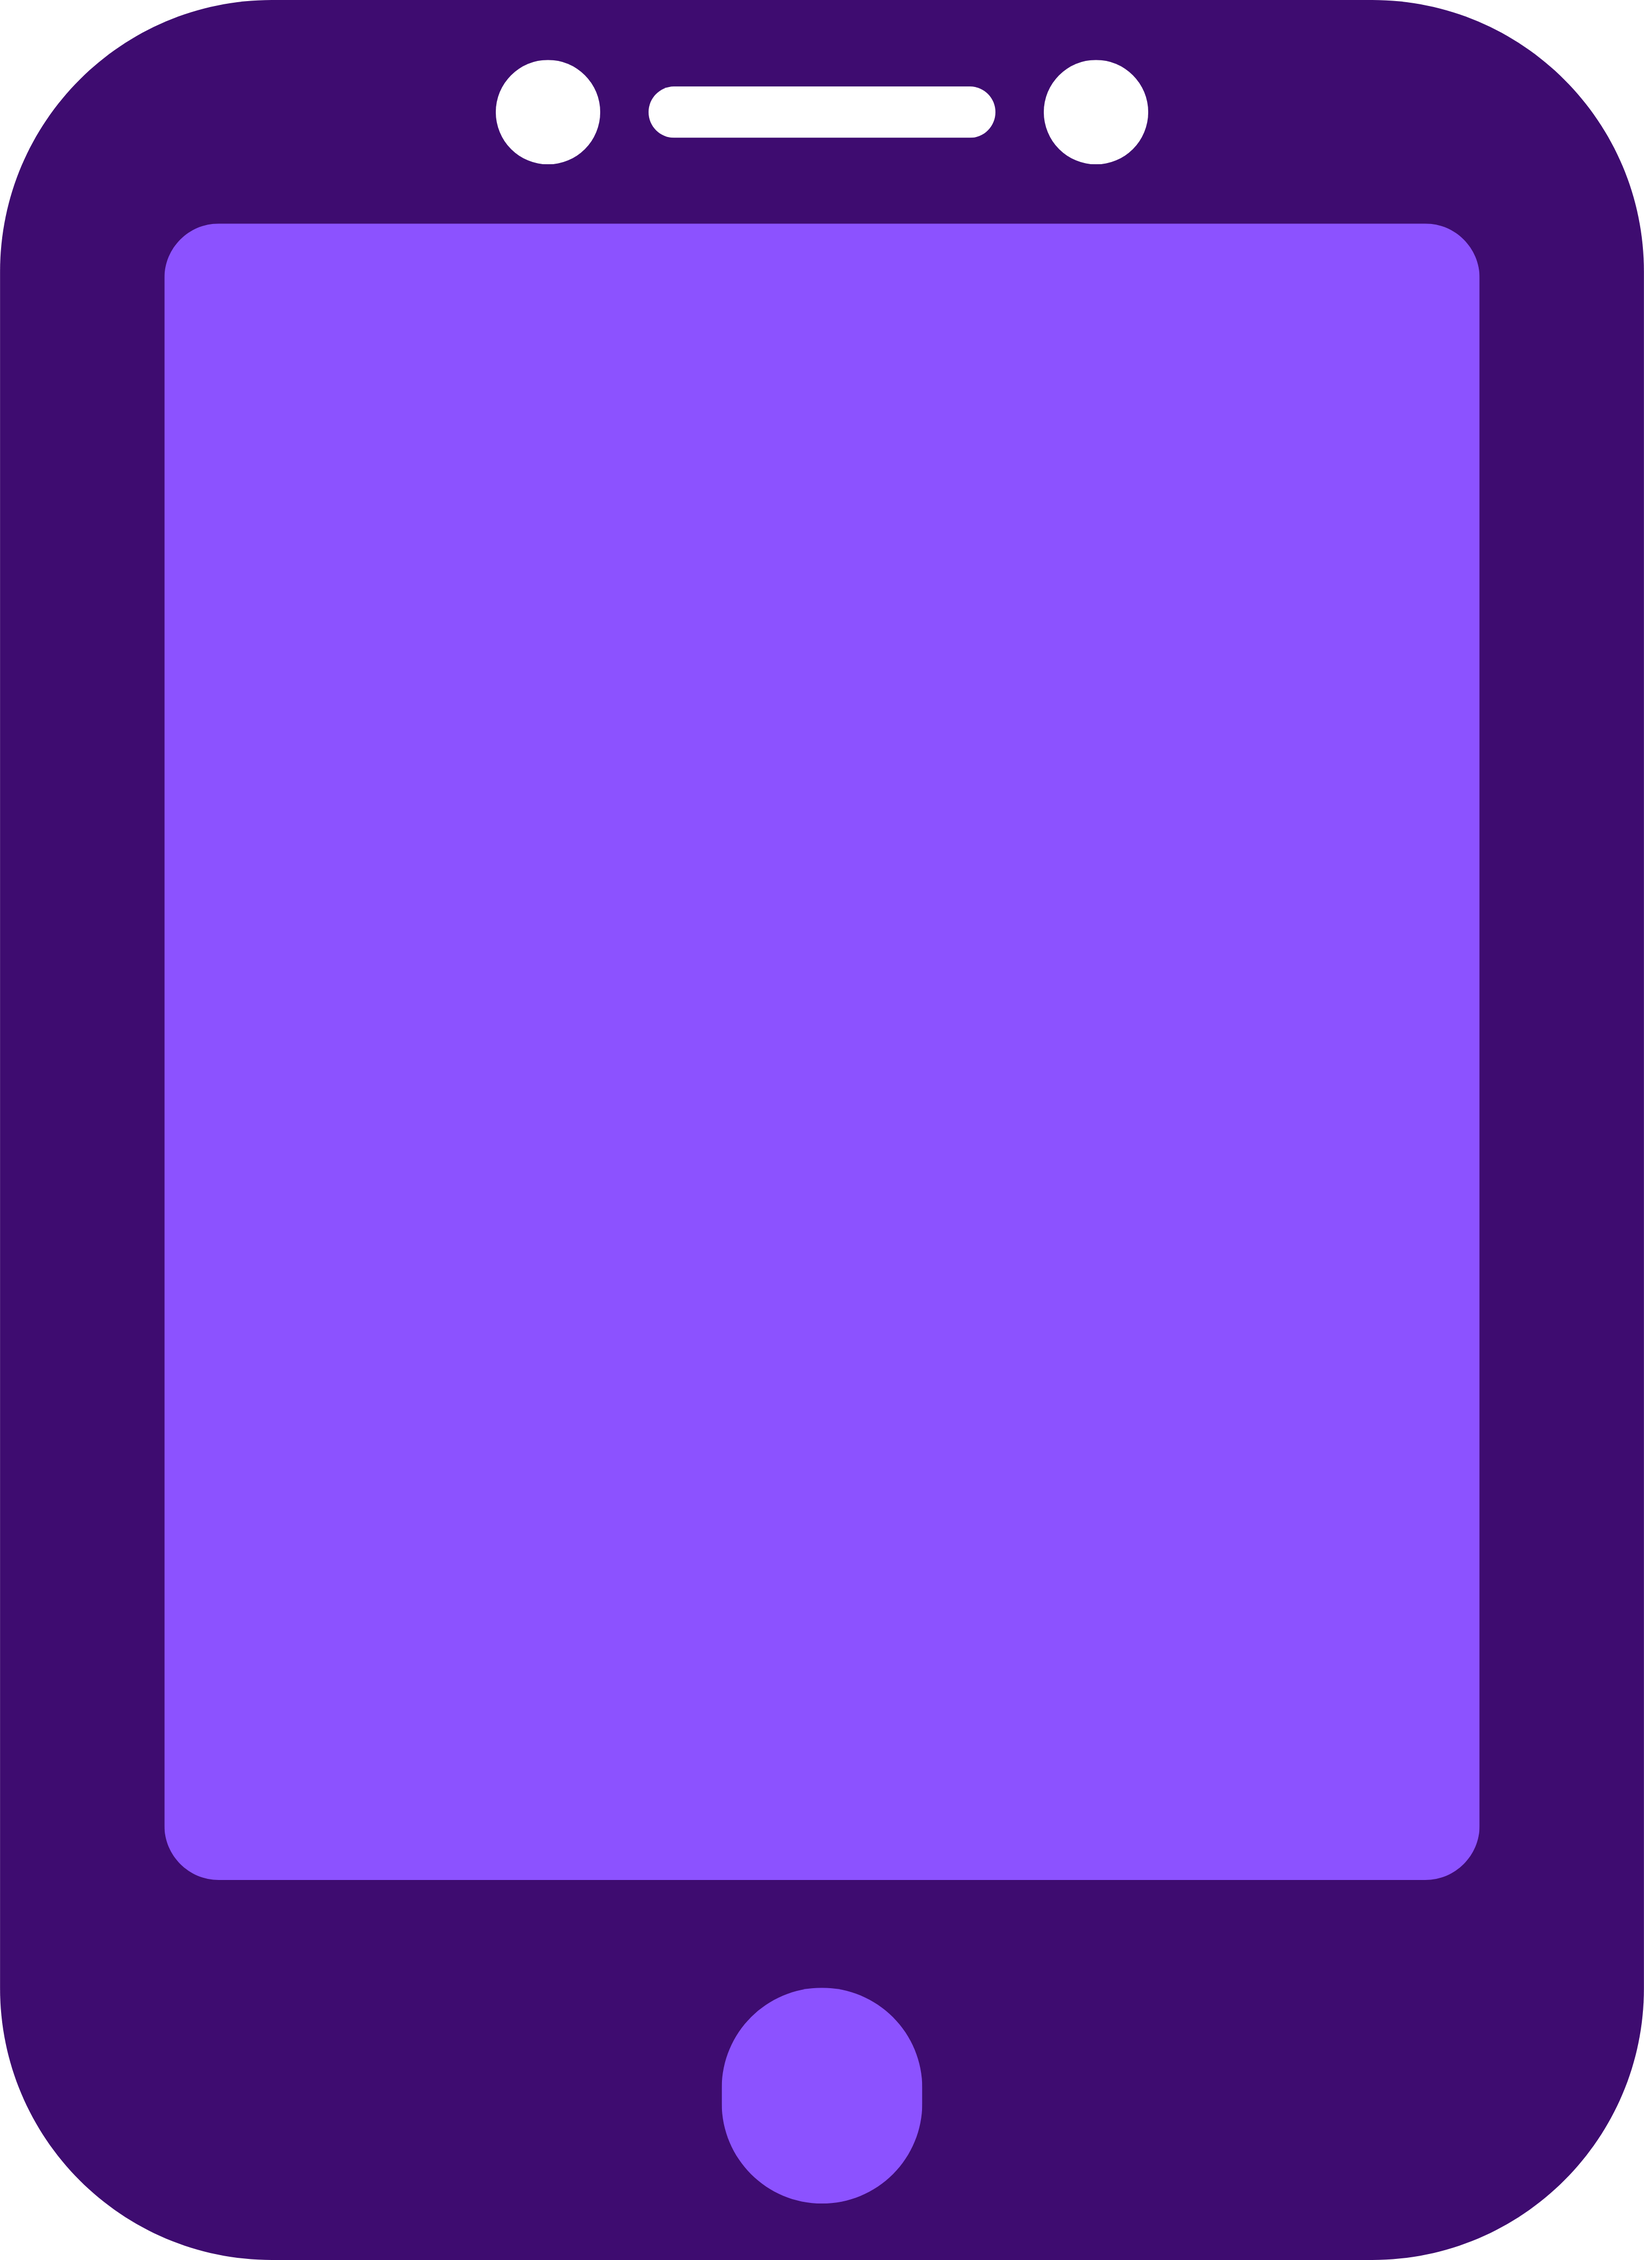
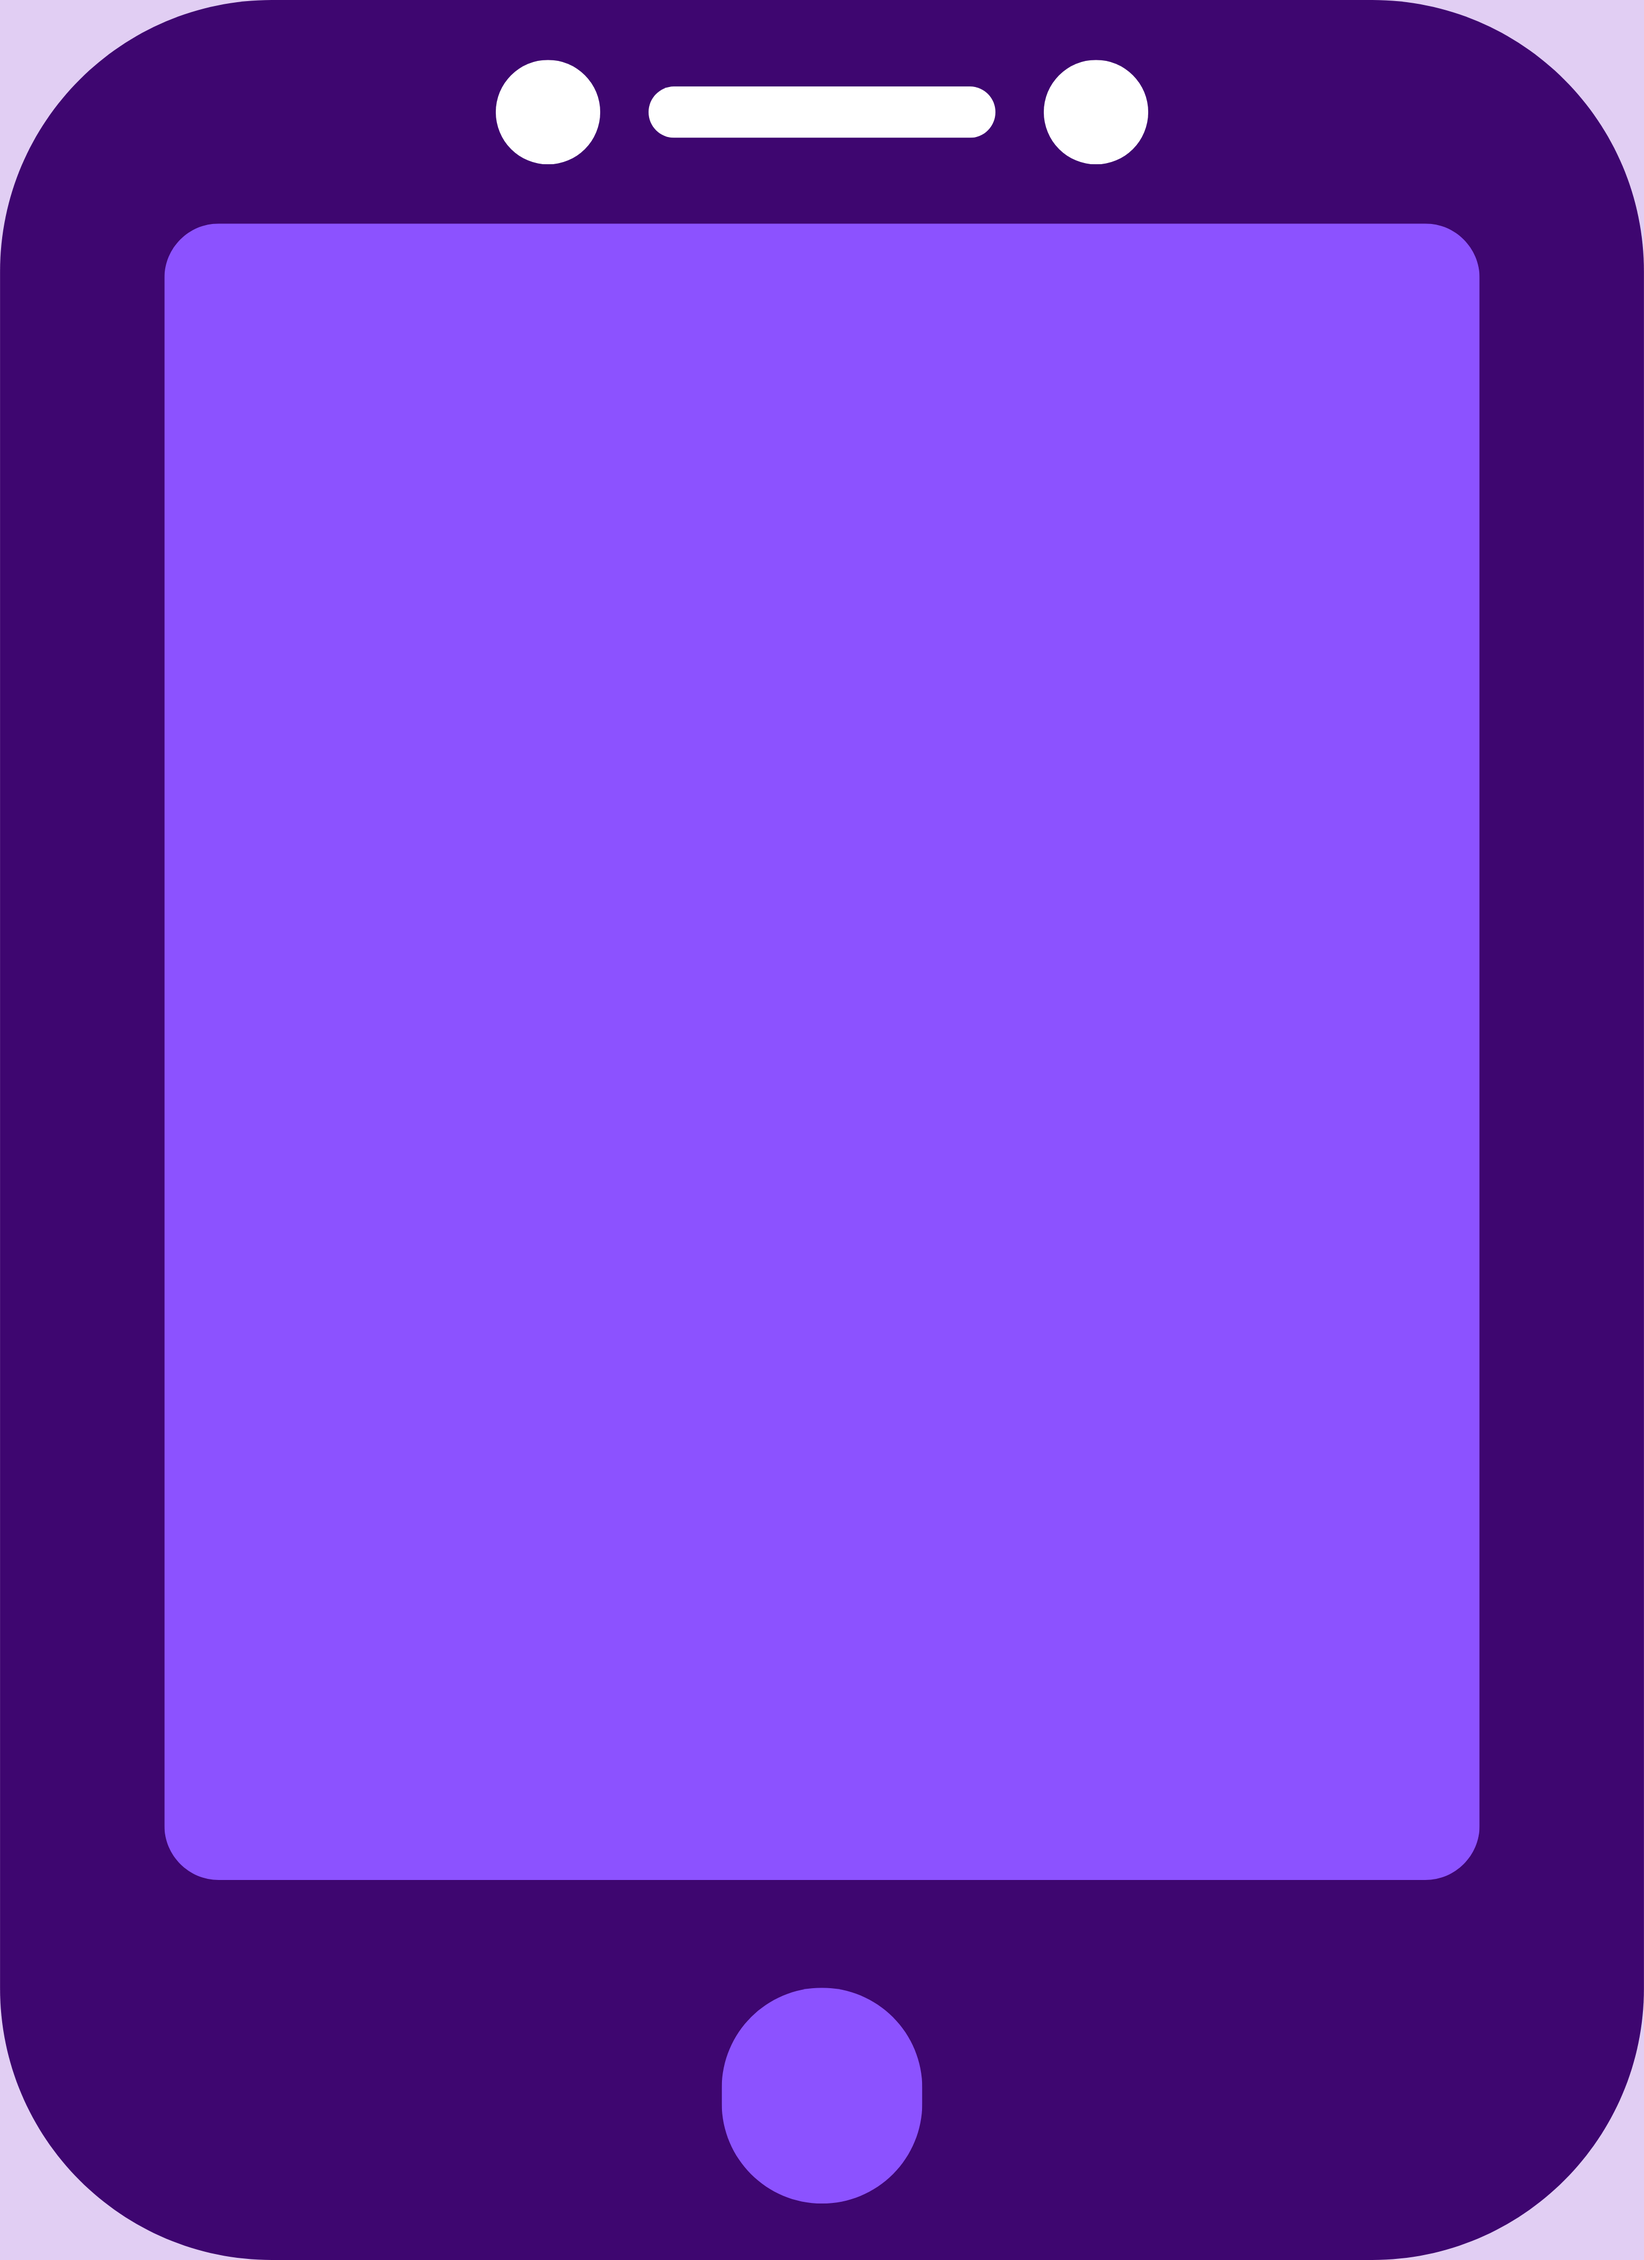
css progress
I had to hard code the png backgrounds ugh

diff --git a/src/style.css b/src/style.css
@@ -1,3 +1,40 @@
+@import url('https://fonts.googleapis.com/css2?family=Orbitron:wght@400..900&family=Special+Elite&display=swap');
+
+
 * {
     box-sizing: border-box;
+ font-family: "Special Elite", system-ui;
+  font-weight: 400;
+  font-style: normal;
+}
+
+
+#intro1, #intro2{
+  align-self: center;
+    height: 600px;
+    width: 600px;
+    -webkit-user-drag: none;
+}
+
+body {
+    background-color: #e1cef3;
+}
+#intro2{
+display: none;
+
+}
+
+#commence{
+display: none;
+z-index: 1000;
+border-radius: 300px;
+box-shadow: #000000 3px 3px;
+color: white;
+background-color:#3e0c70;
+
+}
+
+a{ 
+    color: white;
+    text-decoration: none;
 }

diff --git a/src/script.js b/src/script.js
@@ -1,0 +1,17 @@
+window.onload = () => {
+
+function instructions() {
+document.getElementById("intro1").onclick = show;
+}
+ function show() {
+document.getElementById("intro2").style.display = "flex"; 
+
+document.getElementById("intro1").style.display = "none"; 
+document.getElementById("click").style.display = "none"; 
+document.getElementById("commence").style.display = "flex";
+ }
+
+instructions();
+
+
+}

diff --git a/src/index.html b/src/index.html
@@ -9,8 +9,9 @@
     <title>Online Telephone</title>
 </head>
 <body>
+    <h1 id="click">Click To Proceed....</h1>
     <img src="./intro1.png" alt="Instructions" id="intro1">
     <img src="./intro2.png" alt="Guidelines" id="intro2">
-    <button ><a id="commence" href="./game.html">Start The Game!</a></button>
+    <button id="commence"><a  href="./game.html">Start The Game!</a></button>
 </body>
 </html>
